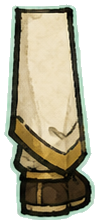
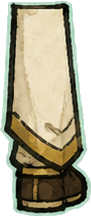
fix(puppet): DST chibi proportions + idle breath + joint overlap + trim alpha
Diagnosis từ video user iter#2:
- Hand ở y=-1.015 (dưới gối) thay vì hip → arms quá dài
- Idle pose static như tượng → không có breathing
- Thin trouser hem ở top shin tạo gap visible giữa leg trouser và shoe

Fix:
- PuppetPlaceholderSpec.RectFor: arm 56→36, forearm 44→28, leg 60→48,
  shin 44→32. Auto-PPU shrink art tương ứng. Hand giờ rest ở hip level,
  total height ~5 heads (DST chibi).
- PuppetAnimController.idleBreathAmplitude 0.015→0.03 → visible chest
  rise/fall, character không 'đứng đơ'.
- BootstrapWizard joint overlap: forearm parented at -armLen+0.06,
  shin at -legLen+0.10 → thin tapered top edge của child hidden behind
  wider parent bottom.
- trim_alpha_bbox.py: trim 4px transparent margin from 30 player PNGs
  (margin từ slicing PR#122 → joint connect tighter).
- AI_PROMPTS.md: spec heights table updated cho future art gen.

diff --git a/Assets/_Project/Editor/BootstrapWizard.cs b/Assets/_Project/Editor/BootstrapWizard.cs
@@ -719,21 +719,28 @@ namespace WildernessCultivation.EditorTools
             // PR K (L2): nest forearm under arm, shin under leg. Top-center pivot trên both →
             // forearm joint = elbow ở bottom của arm sprite (local y = -armLen). Optional —
             // missing PNG → AddPuppetPart returns null → PuppetAnimController null-skips bend logic.
+            //
+            // Joint OVERLAP: hand-drawn art tapers thin ở top edge của forearm/shin (5-15%
+            // of part height — thin trouser hem above shoe; thin wrist above cuff trim). Bare
+            // -armLen / -legLen offset đặt thin top edge AT joint → visible as thin disconnect.
+            // Overlap children up by small amount để thin top hidden behind wider parent bottom.
+            const float elbowOverlap = 0.06f;   // 1/15 của armLen, hides ~10% top taper
+            const float kneeOverlap = 0.10f;    // 1/7.5 của legLen, hides ~22% top (shin trouser hem)
             forearmLeft = armLeft != null
                 ? AddPuppetPart(armLeft, sprites, CharacterArtSpec.PuppetRole.ForearmLeft,
-                    sortingOrderBase + 4, new Vector3(0f, -armLen, 0f))
+                    sortingOrderBase + 4, new Vector3(0f, -armLen + elbowOverlap, 0f))
                 : null;
             forearmRight = armRight != null
                 ? AddPuppetPart(armRight, sprites, CharacterArtSpec.PuppetRole.ForearmRight,
-                    sortingOrderBase + 4, new Vector3(0f, -armLen, 0f))
+                    sortingOrderBase + 4, new Vector3(0f, -armLen + elbowOverlap, 0f))
                 : null;
             shinLeft = legLeft != null
                 ? AddPuppetPart(legLeft, sprites, CharacterArtSpec.PuppetRole.ShinLeft,
-                    sortingOrderBase + 1, new Vector3(0f, -legLen, 0f))
+                    sortingOrderBase + 1, new Vector3(0f, -legLen + kneeOverlap, 0f))
                 : null;
             shinRight = legRight != null
                 ? AddPuppetPart(legRight, sprites, CharacterArtSpec.PuppetRole.ShinRight,
-                    sortingOrderBase + 1, new Vector3(0f, -legLen, 0f))
+                    sortingOrderBase + 1, new Vector3(0f, -legLen + kneeOverlap, 0f))
                 : null;
         }
 

diff --git a/tools/trim_alpha_bbox.py b/tools/trim_alpha_bbox.py
@@ -1,0 +1,64 @@
+"""
+Trim alpha bbox of player puppet PNGs.
+
+Each part PNG has small transparent margins (4-5 px) from prior slicing. With sprite
+pivot at top-center / bottom-center / etc., these margins translate to visible gaps at
+joint connections (e.g. shin-top has 4px transparent before shoe content → 4px gap
+between leg-bottom and shin-shoe-top).
+
+This script crops each PNG tight to its alpha bbox so:
+- top-pivot (0.5, 1.0) → visible content starts at sprite top edge
+- bottom-pivot (0.5, 0.0) → visible content ends at sprite bottom edge
+- center pivot (0.5, 0.5) → visible content is centered
+
+Usage:
+    python3 tools/trim_alpha_bbox.py
+"""
+from pathlib import Path
+from PIL import Image
+
+ROOT = Path(__file__).resolve().parent.parent
+ART = ROOT / "Assets" / "_Project" / "Art" / "Characters" / "player"
+DIRECTIONS = ["E", "N", "S"]
+PARTS = [
+    "head", "torso",
+    "arm_left", "arm_right",
+    "forearm_left", "forearm_right",
+    "leg_left", "leg_right",
+    "shin_left", "shin_right",
+]
+
+
+def trim_one(path: Path) -> tuple[bool, str]:
+    img = Image.open(path).convert("RGBA")
+    bbox = img.getbbox()
+    if bbox is None:
+        return False, f"empty alpha — skipped"
+    left, top, right, bot = bbox
+    w, h = img.size
+    margins = (left, top, w - right, h - bot)
+    if all(m == 0 for m in margins):
+        return False, f"already tight ({w}x{h})"
+    cropped = img.crop(bbox)
+    cropped.save(path, optimize=True)
+    return True, f"{w}x{h} → {cropped.size[0]}x{cropped.size[1]}  trimmed L{margins[0]} T{margins[1]} R{margins[2]} B{margins[3]}"
+
+
+def main():
+    n_modified = 0
+    for direction in DIRECTIONS:
+        for part in PARTS:
+            path = ART / direction / f"{part}.png"
+            if not path.exists():
+                print(f"  MISSING  {path.relative_to(ROOT)}")
+                continue
+            modified, msg = trim_one(path)
+            tag = "TRIM" if modified else "skip"
+            print(f"  [{tag}]  {direction}/{part:18s}  {msg}")
+            if modified:
+                n_modified += 1
+    print(f"\nTotal: {n_modified} files trimmed")
+
+
+if __name__ == "__main__":
+    main()

diff --git a/Assets/_Project/Scripts/Core/PuppetPlaceholderSpec.cs b/Assets/_Project/Scripts/Core/PuppetPlaceholderSpec.cs
@@ -239,14 +239,16 @@ namespace WildernessCultivation.Core
             {
                 case CharacterArtSpec.PuppetRole.Head: return (40, 40);
                 case CharacterArtSpec.PuppetRole.Torso: return (52, 80);
+                // DST chibi proportions: total arm (sleeve+forearm) = shoulder-to-hip distance ~1.0u
+                // → hand rests at hip level (not knee). Total leg ~1.25u → ~5 heads tall character.
                 case CharacterArtSpec.PuppetRole.ArmLeft:
-                case CharacterArtSpec.PuppetRole.ArmRight: return (16, 56);
+                case CharacterArtSpec.PuppetRole.ArmRight: return (16, 36);
                 case CharacterArtSpec.PuppetRole.ForearmLeft:
-                case CharacterArtSpec.PuppetRole.ForearmRight: return (14, 44);
+                case CharacterArtSpec.PuppetRole.ForearmRight: return (14, 28);
                 case CharacterArtSpec.PuppetRole.LegLeft:
-                case CharacterArtSpec.PuppetRole.LegRight: return (18, 60);
+                case CharacterArtSpec.PuppetRole.LegRight: return (18, 48);
                 case CharacterArtSpec.PuppetRole.ShinLeft:
-                case CharacterArtSpec.PuppetRole.ShinRight: return (16, 44);
+                case CharacterArtSpec.PuppetRole.ShinRight: return (16, 32);
                 case CharacterArtSpec.PuppetRole.Tail: return (50, 18);
                 // Phase 3 wings: wide span (54 px) + medium-thin chord (28 px). Rotates quanh
                 // shoulder pivot — amplitude 50° cần silhouette đủ dài để đọc được motion.

diff --git a/Assets/_Project/Scripts/Vfx/PuppetAnimController.cs b/Assets/_Project/Scripts/Vfx/PuppetAnimController.cs
@@ -74,9 +74,10 @@ namespace WildernessCultivation.Vfx
         public float movingThreshold = 0.05f;
 
         [Header("Idle breathing")]
-        [Tooltip("Idle torso bob biên độ (subtle breathing).")]
-        public float idleBreathAmplitude = 0.015f;
-        [Tooltip("Idle breath tần số.")]
+        [Tooltip("Idle torso bob biên độ (subtle breathing). 0.025-0.04 = visible chest rise/fall " +
+                 "(DST grade); 0.01 = barely-perceptible.")]
+        public float idleBreathAmplitude = 0.03f;
+        [Tooltip("Idle breath tần số (Hz). 1.0-1.4 = relaxed breathing.")]
         public float idleBreathFrequency = 1.2f;
 
         [Header("Lunge / Attack")]

diff --git a/Documentation/AI_PROMPTS.md b/Documentation/AI_PROMPTS.md
@@ -71,10 +71,10 @@ Tham chiếu: `Assets/_Project/Scripts/Core/PuppetPlaceholderSpec.cs` `RectFor(r
 | --- | --- | --- | --- | --- | --- |
 | `head` | 40×40 | 0.625 | 1.00 | center | 1024×1024 |
 | `torso` | 52×80 | 1.250 | 0.65 | center | 1024×1536 |
-| `arm_left` / `arm_right` | 16×56 | 0.875 | 0.29 | top-center (vai) | 600×1800 |
-| `forearm_left` / `forearm_right` | 14×44 | 0.688 | 0.32 | top-center (khuỷu) | 540×1620 |
-| `leg_left` / `leg_right` | 18×60 | 0.938 | 0.30 | top-center (hông) | 660×1980 |
-| `shin_left` / `shin_right` | 16×44 | 0.688 | 0.36 | top-center (gối) | 600×1620 |
+| `arm_left` / `arm_right` | 16×36 | 0.5625 | 0.44 | top-center (vai) | 600×1350 |
+| `forearm_left` / `forearm_right` | 14×28 | 0.4375 | 0.50 | top-center (khuỷu) | 540×1080 |
+| `leg_left` / `leg_right` | 18×48 | 0.75 | 0.38 | top-center (hông) | 660×1760 |
+| `shin_left` / `shin_right` | 16×32 | 0.5 | 0.50 | top-center (gối) | 600×1200 |
 | `tail` | 50×18 | 0.281 | 2.78 | left-center (gốc tail) | 1500×540 |
 | `wing_left` / `wing_right` | 54×28 | 0.438 | 1.93 | left-center (vai cánh) | 1620×840 |
 | `body_seg_1..4` | 38×26 → 26×20 | 0.41 → 0.31 | ~1.5 | left-center | 1140×780 |
